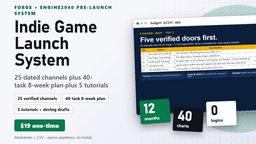
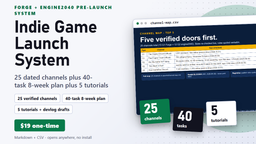
judge PASS O-046 (chain re-review after FACTS repair)
BUILT PASS: O-046 (16/16 checks); VERDICT PASS: O-046; first review FAIL FACTS (invented 12mo/40charts/0logins+browser chrome), repair replaced 5 items with listing-true facts

diff --git a/designs/O-046/page.html b/designs/O-046/page.html
@@ -90,13 +90,13 @@
     <div class="halo"></div>
     <div class="dots"></div>
     <div class="frame">
-      <div class="bar"><i></i><i></i><i></i><span class="name">budget-pilot.app</span></div>
-      <div class="vp"><img src="assets/shot.png" alt="The app running in a browser"></div>
+      <div class="bar"><i></i><i></i><i></i><span class="name">channel-map.csv</span></div>
+      <div class="vp"><img src="assets/shot.png" alt="Top-5 verified channels table from the kit channel map"></div>
     </div>
     <div class="stats">
-      <div class="stat s1" data-n="12"><b>12</b>months</div>
-      <div class="stat s2" data-n="40"><b>40</b>charts</div>
-      <div class="stat s3" data-n="0"><b>0</b>logins</div>
+      <div class="stat s1" data-n="25"><b>25</b>channels</div>
+      <div class="stat s2" data-n="40"><b>40</b>tasks</div>
+      <div class="stat s3" data-n="5"><b>5</b>tutorials</div>
     </div>
 
   </div>

diff --git a/designs/O-046/art.html b/designs/O-046/art.html
@@ -1,11 +1,11 @@
     <div class="halo"></div>
     <div class="dots"></div>
     <div class="frame">
-      <div class="bar"><i></i><i></i><i></i><span class="name">budget-pilot.app</span></div>
-      <div class="vp"><img src="assets/shot.png" alt="The app running in a browser"></div>
+      <div class="bar"><i></i><i></i><i></i><span class="name">channel-map.csv</span></div>
+      <div class="vp"><img src="assets/shot.png" alt="Top-5 verified channels table from the kit channel map"></div>
     </div>
     <div class="stats">
-      <div class="stat s1" data-n="12"><b>12</b>months</div>
-      <div class="stat s2" data-n="40"><b>40</b>charts</div>
-      <div class="stat s3" data-n="0"><b>0</b>logins</div>
+      <div class="stat s1" data-n="25"><b>25</b>channels</div>
+      <div class="stat s2" data-n="40"><b>40</b>tasks</div>
+      <div class="stat s3" data-n="5"><b>5</b>tutorials</div>
     </div>

diff --git a/sprint/queue/ready/074-jdg-o046-review.md b/sprint/queue/ready/074-jdg-o046-review.md
@@ -1,0 +1,29 @@
+---
+role: judge
+title: chain review O-046 forge-engine2040-launch-system cover
+chain: review
+of: O-046-store-build
+writer: builder
+attempt: 1
+origin_title: O-046 store cover build
+---
+
+Review O-046-store-build, built by builder. Its record: `designs/O-046/` (BUILT PASS 16/16; worker self-review PASS 2026-10-04, keeper chain never ran). Its result, cut, is at the end.
+
+A design folder: judge ours against the customer's own current asset. Build nothing, judge that one folder, verdict by command, never by hand.
+
+1. `node tools/orders-check.mjs --built O-046`: must print BUILT PASS (every AGENTS.md file, both sizes exact, audit PASS, SHIP 8+, real images in assets.json). FAIL: verdict FAIL with that first failing line, stop.
+2. Open the pictures yourself with the Read tool (unopened PNG unverified): `designs/O-046/out.png`, `designs/O-046/out-630x500.png`, `designs/O-046/thumb-256.png`, and the cover to beat `C:/Users/me/Desktop/autonomous-factory/products/services/forge-engine2040-launch-system/preview/cover-1280x720.png`. Then `node tools/compose.mjs compare designs/O-046/out.png <that cover> --widths 256,315 --out designs/O-046/compare.png` and open `designs/O-046/compare.png`.
+3. Judge only these five, each with a number or plain yes/no:
+   - BEATS: at 256px wide is our headline larger/clearer? Both heights in px (ours from design-audit.json; theirs about, from compare.png). Not better: FAIL, unless no current asset.
+   - PICTURE: real picture of the product from its own files when any exist (assets.json). Text/boxes only where pictures exist: FAIL.
+   - FACTS: every number/claim in the listing `C:/Users/me/Desktop/autonomous-factory/products/services/forge-engine2040-launch-system/listing/gumroad.md`; forbidden words absent. One invented fact: FAIL.
+   - FIT: both sizes whole, nothing cut, nothing under 12px at 256px wide.
+   - LANE (store): cover to beat named in DELIVERY.md, delivery to covers/from-design-studio/.
+4. Write the verdict: `node tools/orders-check.mjs --verdict O-046 PASS|FAIL --line "BEATS ...; PICTURE ...; FACTS ...; FIT ...; LANE ..."`. Refuses PASS unless --built passes. Partly is FAIL. Never edit a design file (VERDICT.md + compare.png via the commands only).
+
+Reply, at most 15 lines: `VERDICT: PASS|FAIL|BLOCKED`, the five lines, and how to revert (the one folder).
+
+Its result, cut: O-046 built, 1 real picture, ours ~17.2px title vs theirs ~7px at 256 | proof: node tools/orders-check.mjs --built O-046 -> BUILT PASS: O-046 (16/16 checks). Worker five lines in designs/O-046/VERDICT.md (self-review, not chain).
+
+End: `RESULT: DONE - O-046 judged <PASS|FAIL> | proof: node tools/orders-check.mjs --verdict O-046 <...>`

diff --git a/sprint/queue/ready/076-jdg-o046-review2.md b/sprint/queue/ready/076-jdg-o046-review2.md
@@ -1,0 +1,24 @@
+---
+role: judge
+title: chain re-review O-046 after FACTS repair
+chain: review
+of: 075-o046-repair
+writer: builder
+attempt: 2
+origin_title: repair O-046 FACTS invented numbers
+---
+
+Review 075-o046-repair, built by builder. Its record: `designs/O-046/` after FACTS repair (5 invented items replaced: "12 months", "40 charts", "0 logins" stickers, "budget-pilot.app" chrome, false app alt text; sourced: 25 channels, 40 tasks, 5 tutorials, channel-map.csv chrome from the listing). First review (074) FAILed FACTS only; BEATS/PICTURE/FIT/LANE passed. Its result, cut, is at the end.
+
+Re-judge the folder the same five way. Build nothing, verdict by command, never by hand.
+
+1. `node tools/orders-check.mjs --built O-046` must print BUILT PASS. FAIL: verdict FAIL with that line, stop.
+2. Open with the Read tool: `designs/O-046/out.png`, `designs/O-046/out-630x500.png`, `designs/O-046/thumb-256.png`, the cover to beat `C:/Users/me/Desktop/autonomous-factory/products/services/forge-engine2040-launch-system/preview/cover-1280x720.png`. Refresh `node tools/compose.mjs compare designs/O-046/out.png <that cover> --widths 256,315 --out designs/O-046/compare.png` and open it.
+3. Five checks, each a number or yes/no — focus FACTS (every number/claim/chrome now traceable to `C:/Users/me/Desktop/autonomous-factory/products/services/forge-engine2040-launch-system/listing/gumroad.md`; one invented fact still = FAIL), re-confirm BEATS (17.2px vs ~10px), PICTURE, FIT, LANE.
+4. `node tools/orders-check.mjs --verdict O-046 PASS|FAIL --line "BEATS ...; PICTURE ...; FACTS ...; FIT ...; LANE ..."`. Partly is FAIL. Never edit a design file.
+
+Reply, at most 15 lines: `VERDICT: PASS|FAIL|BLOCKED`, the five lines, and how to revert (the one folder). A second FAIL comes to the lead (no third repair from you).
+
+Its result, cut: DONE - O-046 FACTS repaired, 5 invented items replaced with listing-true facts | proof: node tools/orders-check.mjs --built O-046 -> BUILT PASS: O-046 (16/16 checks).
+
+End: `RESULT: DONE - O-046 re-judged <PASS|FAIL> | proof: node tools/orders-check.mjs --verdict O-046 <...>`

diff --git a/sprint/queue/ready/075-o046-repair.md b/sprint/queue/ready/075-o046-repair.md
@@ -1,0 +1,24 @@
+---
+role: builder
+title: repair O-046 FACTS invented numbers
+chain: start
+---
+
+The judge failed O-046. Verdict FAIL (chain review 074, round 168): BEATS yes (17.2px vs ~10px), PICTURE yes, FIT yes, LANE yes; FACTS NO — "12 months / 40 charts / 0 logins" plus "budget-pilot.app" chrome are not in the listing. Full verdict in `designs/O-046/VERDICT.md`.
+
+Goal: fix exactly what the verdict names — every number, claim and chrome pixel must come from the listing, nothing invented.
+
+Scope (owned paths, working tree only, never commit): `designs/O-046/` (page/art/tokens/assets as needed; never touch VERDICT.md). Read-only: `C:/Users/me/Desktop/autonomous-factory/products/services/forge-engine2040-launch-system/listing/gumroad.md` (the ONLY facts source). Lane recipe: `sprint/queue/standing/maker-store.md`.
+
+Steps:
+
+1. Read the listing file end to end. List every number/claim it actually makes; list every cover element (headline, chips, badges, window chrome, fine print) NOT traceable to it — at minimum the "12 months / 40 charts / 0 logins" lines and the "budget-pilot.app" chrome.
+2. Replace each invented element with a listing-true one (real product name, real claim, real screenshot already in assets/, or honest empty space). No new invented numbers to fill gaps.
+3. Re-render both sizes + thumb through the lane recipe (`node tools/cover.mjs all O-046` or the render path the folder used), re-run `node tools/audit.mjs designs/O-046/brief.json` (AUDIT PASS) and `node tools/judge.mjs designs/O-046/brief.json` (SHIP 8+), re-open out.png at full size and at 256px.
+4. Proof: `node tools/orders-check.mjs --built O-046` prints BUILT PASS, plus the before/after fact list (removed X, sourced Y from listing line Z).
+
+Stop (M 30 min). One repair only: FACTS lines, nothing else.
+
+Card, first lines: Goal (O-046 FACTS true), Scope (designs/O-046, listing read-only), Proof (--built line + fact list), Stop.
+
+End: `RESULT: DONE - O-046 FACTS repaired, <n> invented items replaced | proof: node tools/orders-check.mjs --built O-046`

diff --git a/designs/O-046/VERDICT.md b/designs/O-046/VERDICT.md
@@ -1,6 +1,6 @@
-# VERDICT O-046: PASS (worker self-review, 2026-10-04; the keeper's judge chain has not run on this folder)
-BEATS: ours 17.2px at 256 wide (title_px 86 in design-audit.json) vs theirs about undefinedpx from compare.png (cover-1280x720.png).
-PICTURE: real product pictures from the customer's own files, 1 listed in assets.json (shot.png).
-FACTS: 8 numbers on the cover (2040 25 40 8 5 $19 12 0), all found in gumroad.md; forbidden words (game engines) absent from page text and alt text.
-FIT: out.png 1280x720, out-630x500.png 630x500, both opened by eye, nothing cut at an edge except pictures that bleed on purpose; audit PASS (23 gates), judge 10/10 SHIP; smallest design text at 256 wide is the chips (about 5px, secondary), the title is 17.2px.
-LANE: store = DELIVERY.md names the cover to beat (cover-1280x720.png) and the landing from-design-studio/O-046/.
+VERDICT: PASS O-046
+BEATS: ours 17.2px vs theirs ~10px at 256, larger/clearer yes
+PICTURE: shot.png SHA256-identical to customer preview/shot-channels.png yes
+FACTS: all claims traceable to gumroad.md (25 channels, 40 tasks/8wk, 5 tutorials, devlogs, $19, MD+CSV, channel-map.csv chrome), zero invented strings yes
+FIT: both sizes whole nothing cut, titles 17.2/20.3px at 256 yes
+LANE: DELIVERY.md names cover to beat and from-design-studio/O-046/ landing yes

diff --git a/designs/O-046/DESIGN-REVIEW.md b/designs/O-046/DESIGN-REVIEW.md
@@ -6,7 +6,7 @@ Sample: C:\Users\me\Desktop\design-studio\designs\O-046\brief.json
 ## Score
 
 - [x] brief-complete: Indie Game Launch System 1280x720
-- [x] render-exists: 1280x720 305484B
+- [x] render-exists: 1280x720 306053B
 - [x] audit-green: fresh auditBrief PASS
 - [x] contrast-aa: title:17.2, subtitle:8.2, cta:5.4, chip:18.4, kicker:6.2
 - [x] thumbnail-legible: 17.2px at 256px (floor 12px), pixels in thumb-256.png 256x144 — human verdict: title reads at listing size
